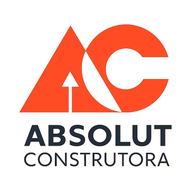
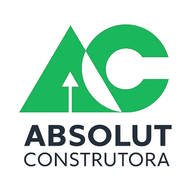
Visita Técnica: ícone com o AC em verde
Diferencia o ícone do app de Visita Técnica do outro app da Absolut
na tela inicial. O logo do relatório PDF mantém as cores originais.

Claude-Session: https://claude.ai/code/session_016jCvam8fzpDokAEm7vcRej

Changed region(s): [[0.0938, 0.125, 0.875, 0.5938]]

diff --git a/vistoria/service-worker.js b/vistoria/service-worker.js
@@ -1,4 +1,4 @@
-const CACHE='lang-vistoria-v4';
+const CACHE='lang-vistoria-v5';
 const APP_SHELL=['./','./manifest.json','./vendor/jspdf.umd.min.js','./assets/icon-192.png','./assets/icon-512.png','./assets/absolut-logo.png'];
 self.addEventListener('install',e=>{self.skipWaiting();e.waitUntil(caches.open(CACHE).then(c=>c.addAll(APP_SHELL)))});
 self.addEventListener('activate',e=>{e.waitUntil(Promise.all([caches.keys().then(keys=>Promise.all(keys.filter(k=>k.startsWith('lang-vistoria-')&&k!==CACHE).map(k=>caches.delete(k)))),self.clients.claim()]))});
